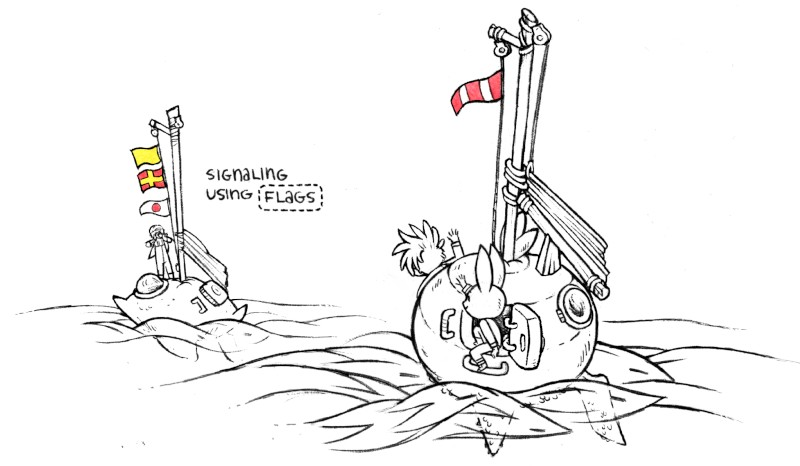
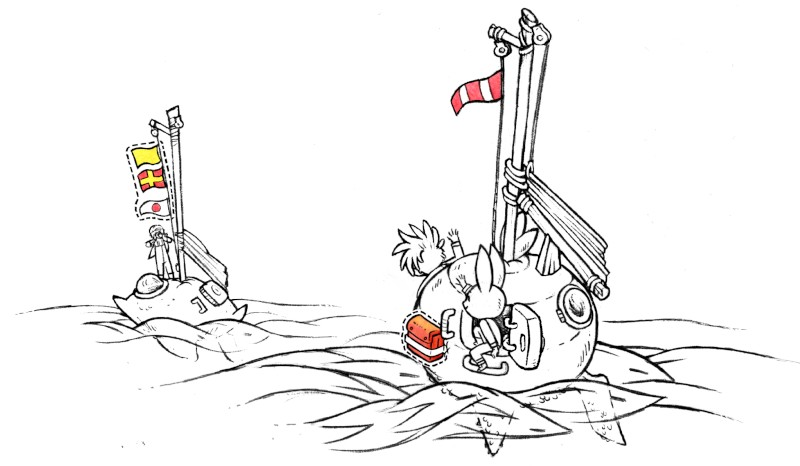
*

diff --git a/index.html b/index.html
@@ -16,14 +16,20 @@
 </head>
 <body>
 <header>
-	<div id='wrap'>
-		<img src='media/content/rabbit_main.jpg' alt='Sailing in root vegetable-shaped sailboats on the ocean, the sailors are talking to each other via a series of flags. A turnip-shaped boat has an anthropomorphic rabbit sailor aboard, and a human, the other is too far to make out. The sailboat that is far away is signaling with the Quebec, Romeo and One flags. The turnip-shaped boat is flying the answering pennant.'>
-		<a style='width: 11%;height: 13%;top: 37%;left: 32%' title='Link to a page about signaling with flags' href="site/flags_maritime.html"><span>International Maritime Signal Flags</span></a>
-	</div>
-	<p class='noprint'>Signaling using flags.</p>
-	<img src='media/interface/title.png' width='50%' alt='Rabbit Waves'>
+    <nav>
+    <ul>
+      <li><a href="flags_maritime.html">International Maritime Signal Flags</a></li>
+      <li><a href="emergency_bag.html" target="_blank">Emergency Bag</a></li>
+    </ul>
+  </nav>
 </header>
 <main>
+  <div id='wrap'>
+    <img src='media/content/rabbit_main.jpg' alt='Sailing in root vegetable-shaped sailboats on the ocean, the sailors are talking to each other via a series of flags. A turnip-shaped boat has an anthropomorphic rabbit sailor aboard, and a human, the other is too far to make out. The sailboat that is far away is signaling with the Quebec, Romeo and One flags. The turnip-shaped boat is flying the answering pennant.'>
+    <a style='width: 6%;height: 20%;top: 28%;left: 19%;' title='Link to a page about signaling with flags' href="site/flags_maritime.html"><span>International Maritime Signal Flags</span></a>
+    <a style='width: 7%;height: 13%;top: 66%;left: 50%;' title='Link to a page about emergency bags' href="site/emergency_bag.html"><span>Emergency Bag</span></a>
+  </div>
+  <img src='media/interface/title.png' width='50%' alt='Rabbit Waves'>
 </main>
 <footer>
     <div id='wrapfooter'>
